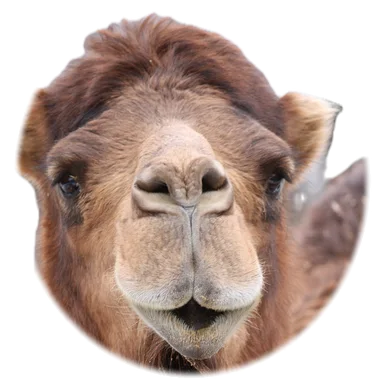
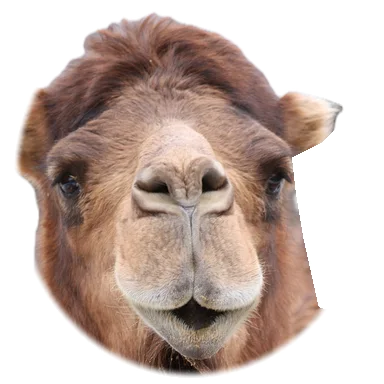
Clean the goat and camel faces, balance the phone HUD and stop rooftop edge snaps

Changed region(s): [[0.75, 0.3438, 0.9688, 0.8125]]

diff --git a/scripts/faces/faceRender.ts b/scripts/faces/faceRender.ts
@@ -6,7 +6,7 @@
  */
 import sharp from 'sharp';
 import {
-  alphaBounds, chinY, cropRect, inHeadRegion, paddedJaw, SILHOUETTE_CELLS, silhouetteRows, DEFAULT_LANDMARKS, headShape, refitRect, toHex, toTexture, type Crop, type FaceLandmarks,
+  alphaBounds, chinY, cropRect, inHeadRegion, isErased, type ErasePolygon, paddedJaw, SILHOUETTE_CELLS, silhouetteRows, DEFAULT_LANDMARKS, headShape, refitRect, toHex, toTexture, type Crop, type FaceLandmarks,
   type PixelRect,
 } from './faceRules.ts';
 
@@ -80,7 +80,7 @@ async function skinTone(rgb: Buffer, lm: FaceLandmarks): Promise<string> {
   return toHex(r.mean, g.mean, b.mean);
 }
 
-function shapedAlpha(mask: Buffer | null, lm: FaceLandmarks): Buffer {
+function shapedAlpha(mask: Buffer | null, lm: FaceLandmarks, erase: readonly ErasePolygon[]): Buffer {
   const alpha = Buffer.alloc(FACE_SIZE * FACE_SIZE);
   const chin = chinY(lm);
   const jaw = lm.jaw.length > 0 ? paddedJaw(lm.jaw) : [];
@@ -90,7 +90,7 @@ function shapedAlpha(mask: Buffer | null, lm: FaceLandmarks): Buffer {
       const i = y * FACE_SIZE + x;
       const u = (x + 0.5) / FACE_SIZE;
       const subject = mask ? mask[i] / BYTE_MAX : 1;
-      const a = inHeadRegion(u, v, jaw, chin) ? subject * headShape(u, v, 1) : 0;
+      const a = inHeadRegion(u, v, jaw, chin) && !isErased(u, v, erase) ? subject * headShape(u, v, 1) : 0;
       alpha[i] = a < MIN_ALPHA ? 0 : Math.round(a * BYTE_MAX);
     }
   }
@@ -102,17 +102,17 @@ async function outline(alpha: Buffer): Promise<Buffer> {
     .blur(OUTLINE_BLUR).threshold(OUTLINE_THRESHOLD).extractChannel(0).raw().toBuffer();
 }
 
-/** Writes the sticker WebP for one face and returns its tone and texture landmarks. */
-export async function renderFace(imagePath: string, maskFile: string | null, crop: Readonly<Crop>, img: ImageLandmarks | null, outPath: string): Promise<RenderResult> {
+/** Writes the sticker WebP for one face (minus any hand-set erase polygons) and returns its tone and texture landmarks. */
+export async function renderFace(imagePath: string, maskFile: string | null, crop: Readonly<Crop>, img: ImageLandmarks | null, erase: readonly ErasePolygon[], outPath: string): Promise<RenderResult> {
   const { width = 0, height = 0 } = await sharp(imagePath, SOURCE_READ).metadata();
   const first = cropRect(crop, width, height);
-  const firstAlpha = shapedAlpha(maskFile ? await cropped(maskFile, first, 1, width, height) : null, textureLandmarks(img, first, width, height));
+  const firstAlpha = shapedAlpha(maskFile ? await cropped(maskFile, first, 1, width, height) : null, textureLandmarks(img, first, width, height), []);
   const bounds = alphaBounds(firstAlpha, FACE_SIZE);
   const rect = bounds ? refitRect(first, bounds, FACE_SIZE) : first;
   const landmarks = textureLandmarks(img, rect, width, height);
   const rgb = await cropped(imagePath, rect, 3, width, height);
   const mask = maskFile ? await cropped(maskFile, rect, 1, width, height) : null;
-  const alpha = shapedAlpha(maskFile ? mask : null, landmarks);
+  const alpha = shapedAlpha(maskFile ? mask : null, landmarks, erase);
   const border = await outline(alpha);
   const out = Buffer.alloc(FACE_SIZE * FACE_SIZE * CHANNELS_RGBA);
   const finalAlpha = new Uint8Array(FACE_SIZE * FACE_SIZE);

diff --git a/scripts/faces/fetchFaces.ts b/scripts/faces/fetchFaces.ts
@@ -10,13 +10,15 @@ import sharp from 'sharp';
 import { downloadOnce, imageInfo, type ImageInfo } from './commonsClient.ts';
 import { analyzePhotos, maskPath } from './faceAnalysis.ts';
 import { renderFace, type ImageLandmarks } from './faceRender.ts';
-import { creditEntry, cropFromFaceBox, isAllowedLicense, type Crop, type CreditEntry } from './faceRules.ts';
+import { creditEntry, cropFromFaceBox, isAllowedLicense, type Crop, type CreditEntry, type ErasePolygon } from './faceRules.ts';
 
 const ROOT = join(import.meta.dirname, '..', '..');
 const SOURCES_PATH = join(ROOT, 'scripts', 'faces', 'faceSources.json');
 const CACHE_DIR = join(ROOT, 'scripts', 'faces', 'cache');
 const ANALYSIS_DIR = join(CACHE_DIR, 'analysis');
 const OUTPUT_DIR = join(ROOT, 'public', 'faces');
+/** Faces without hand-set erase circles keep everything the subject mask kept. */
+const NO_ERASE: readonly ErasePolygon[] = [];
 const CREDITS_PATH = join(ROOT, 'src', 'roster', 'credits.json');
 const SOURCE_READ = { failOn: 'none' } as const;
 
@@ -29,6 +31,8 @@ interface FaceSource {
   manual?: boolean;
   crop: Crop | null;
   landmarks: ImageLandmarks | null;
+  /** Background patches the subject mask kept, cut away by hand in the finished sticker's coordinates (applied after the refit); absent means none. */
+  erase?: ErasePolygon[];
 }
 
 /** Drops a cached photo and its analysis when the fighter's source file changed, so the new photo is fetched. */
@@ -81,7 +85,7 @@ async function main(): Promise<void> {
     if (!source.crop) throw new FaceLicenseError(`${source.id} has no crop`);
     const mask = maskPath(ANALYSIS_DIR, source.id);
     const out = join(OUTPUT_DIR, `${source.id}.webp`);
-    const result = await renderFace(paths.get(source.id) ?? '', existsSync(mask) ? mask : null, source.crop, source.landmarks, out);
+    const result = await renderFace(paths.get(source.id) ?? '', existsSync(mask) ? mask : null, source.crop, source.landmarks, source.erase ?? NO_ERASE, out);
     const info = infos.get(source.id);
     if (info) credits.push(creditEntry(source.id, source.file, info.meta, result.tone, result.landmarks, result.silhouette));
   }

diff --git a/src/fight/ringOuts.ts b/src/fight/ringOuts.ts
@@ -1,9 +1,11 @@
 /**
  * Ring-outs on an open platform: a fighter whose knockback carries their centre past the platform edge falls off.
- * Only fighters being knocked back by a hit can go over; walking and dashing still stop at the edge like a wall.
+ * Only fighters being knocked back by a hit can go over; walking and dashing stop at the edge like a wall, and a
+ * fighter left teetering past the wall line stays put instead of snapping back.
  * A ring-out counts as a knockout, so the usual match-end rules decide the winner.
  */
-import { isInsideArena } from '../core/arena';
+import { ARENA_HALF_DEPTH, ARENA_HALF_WIDTH, isInsideArena, type FloorPoint } from '../core/arena';
+import { bodyRadius } from './bodyPhysics';
 import { ActionKind, type FightEvent, type FighterState } from './fightTypes';
 import { isAlive } from './matchQueries';
 
@@ -28,4 +30,20 @@ export function applyRingOuts(fighters: FighterState[], events: FightEvent[]): v
     events.push({ kind: 'ringOut', target: f.slotId, x: f.x, z: f.z });
     events.push({ kind: 'ko', target: f.slotId, by: RING_OUT_SOURCE });
   }
+}
+
+function limit(half: number, radius: number, before: number): number {
+  return Math.min(half, Math.max(half - radius, Math.abs(before)));
+}
+
+/**
+ * Holds a fighter on an open platform: like the walls, but a fighter whose knockback left them between the wall line
+ * and the edge may stay where they were (before is their position at the start of the tick); they cannot move further out.
+ */
+export function keepOnPlatform(f: FighterState, before: Readonly<FloorPoint>): void {
+  const r = bodyRadius(f);
+  const maxX = limit(ARENA_HALF_WIDTH, r, before.x);
+  const maxZ = limit(ARENA_HALF_DEPTH, r, before.z);
+  f.x = Math.min(maxX, Math.max(-maxX, f.x));
+  f.z = Math.min(maxZ, Math.max(-maxZ, f.z));
 }

diff --git a/src/fight/matchStep.ts b/src/fight/matchStep.ts
@@ -14,7 +14,7 @@ import { resolveAttacks } from './hitResolution';
 import { spawnHazard, stepHazards } from './hazards';
 import { dropFromFallen, pickUpItems, spawnItem } from './items';
 import { spawnProjectiles, stepProjectiles } from './projectiles';
-import { applyRingOuts, canRingOut } from './ringOuts';
+import { applyRingOuts, canRingOut, keepOnPlatform } from './ringOuts';
 import { isAlive, livingOnTeam, teamHealthFraction } from './matchQueries';
 
 function cloneFighter(f: Readonly<FighterState>): FighterState {
@@ -77,7 +77,11 @@ export function stepMatch(state: Readonly<MatchState>, inputs: readonly Readonly
   for (const f of fighters) slideKnockback(f);
   if (state.ringOuts) applyRingOuts(fighters, events);
   separateBodies(fighters);
-  for (const f of fighters) if (!onOpenEdge(f, state.ringOuts)) keepInArena(f);
+  fighters.forEach((f, i) => {
+    if (onOpenEdge(f, state.ringOuts)) return;
+    if (state.ringOuts) keepOnPlatform(f, state.fighters[i]);
+    else keepInArena(f);
+  });
   const ticksLeft = Math.max(0, state.ticksLeft - 1);
   const result = decideOutcome(fighters, ticksLeft === 0);
   if (result.over) events.push({ kind: 'matchOver', winner: result.winner, reason: result.reason });

diff --git a/src/fight/ringOutsEdge.test.ts b/src/fight/ringOutsEdge.test.ts
@@ -66,6 +66,22 @@ describe('ring-outs edge cases', () => {
     expect(state.fighters[1].x).toBeLessThan(ARENA_HALF_WIDTH);
   });
 
+  it('leaves a teetering fighter where knockback left them, without snapping back or letting them walk off', () => {
+    const s = platform(1);
+    s.fighters[0].x = -3;
+    const teeter = ARENA_HALF_WIDTH - 0.05;
+    setKnock(s, 1, ActionKind.Hitstun, teeter, 0, 0, 0);
+    s.fighters[1].action.duration = 2;
+    const idle = run(s, 6, [IDLE_INPUT, IDLE_INPUT]).state;
+    expect(idle.fighters[1].action.kind).toBe(ActionKind.Idle);
+    expect(idle.fighters[1].x).toBeCloseTo(teeter, 5);
+    const out = run(idle, 20, [IDLE_INPUT, input({ moveX: 1 })]).state;
+    expect(out.fighters[1].x).toBeLessThanOrEqual(teeter);
+    expect(out.fighters[1].ringedOut).toBe(false);
+    const back = run(idle, 20, [IDLE_INPUT, input({ moveX: -1 })]).state;
+    expect(back.fighters[1].x).toBeLessThan(teeter - 0.5);
+  });
+
   it('ends a 4v4 once a whole team is rung out, and rung-out fighters stay inert', () => {
     const s = platform(4);
     s.fighters.forEach((f, i) => { f.x = f.team === 0 ? -6 : 6; f.z = -3 + i % 4 * 2; });

diff --git a/scripts/faces/faceRules.test.ts b/scripts/faces/faceRules.test.ts
@@ -5,6 +5,7 @@
  */
 import { describe, expect, it } from 'vitest';
 import {
+  isErased,
   alphaBounds, chinY, creditEntry, inHeadRegion, JAW_SIDE_PAD, paddedJaw, silhouetteRows, cropFromFaceBox, cropRect, DEFAULT_LANDMARKS, HEAD_FILL, headShape, isAllowedLicense,
   NECK_FADE, refitRect, stripHtml, toHex, toTexture,
 } from './faceRules.ts';
@@ -118,5 +119,17 @@ describe('silhouetteRows', () => {
     expect(rows[0]).toBe('80');
     expect(rows[7]).toBe('01');
     expect(rows[3]).toBe('00');
+  });
+});
+
+describe('erase polygons', () => {
+  it('tests points against polygons', () => {
+    const square = [{ x: 0.5, y: 0 }, { x: 1, y: 0 }, { x: 1, y: 0.5 }, { x: 0.5, y: 0.5 }];
+    const triangle = [{ x: 0, y: 1 }, { x: 0.4, y: 1 }, { x: 0, y: 0.6 }];
+    expect(isErased(0.75, 0.25, [square])).toBe(true);
+    expect(isErased(0.25, 0.25, [square])).toBe(false);
+    expect(isErased(0.1, 0.9, [square, triangle])).toBe(true);
+    expect(isErased(0.35, 0.7, [square, triangle])).toBe(false);
+    expect(isErased(0.75, 0.25, [])).toBe(false);
   });
 });

diff --git a/src/ui/hud.ts b/src/ui/hud.ts
@@ -16,6 +16,8 @@ import { THEME } from './theme';
 
 const LOW_HEALTH = 0.3;
 const TEAM_CSS = [THEME.teamA, THEME.teamB, THEME.teamC, THEME.teamD] as const;
+/** More rows than this in one column switch the HUD to its compact size. */
+const COMPACT_ROWS = 2;
 
 interface Row {
   root: HTMLElement;
@@ -40,7 +42,8 @@ export class Hud {
     const left = make('div', 'hud-team', null, top);
     this.timer = make('div', 'hud-timer', '', top);
     const right = make('div', 'hud-team right', null, top);
-    for (const f of state.fighters) this.rows.set(f.slotId, this.buildRow(f.team === 0 ? left : right, f));
+    for (const f of state.fighters) this.rows.set(f.slotId, this.buildRow(f.team % 2 === 0 ? left : right, f));
+    if (Math.max(left.childElementCount, right.childElementCount) > COMPACT_ROWS) this.root.classList.add('compact');
     const power = make('div', 'hud-power', null, this.root);
     this.ready = make('div', 'hud-ready', 'FINISHER READY', power);
     this.meterFill = make('div', 'hud-fill', null, make('div', 'hud-bar meter', null, power));

diff --git a/src/ui/hudStyles.ts b/src/ui/hudStyles.ts
@@ -25,6 +25,10 @@ export const HUD_CSS = `
 .hud-fill { height: 100%; width: 100%; background: ${THEME.health}; transform-origin: left; transition: transform 120ms linear; }
 .hud-fill.low { background: ${THEME.healthLow}; }
 .hud-row.down { opacity: 0.35; filter: grayscale(1); }
+.hud.compact .hud-team { gap: 2px; }
+.hud.compact .hud-face { width: clamp(20px, 3.6vw, 34px); height: clamp(20px, 3.6vw, 34px); }
+.hud.compact .hud-name { font-size: clamp(9px, 1.3vw, 12px); }
+.hud.compact .hud-bar { height: clamp(5px, 1vw, 9px); }
 .hud-row.player .hud-face { box-shadow: 0 0 0 2px var(--player); }
 .hud-timer { font-family: ${THEME.font}; font-size: clamp(26px, 5vw, 48px); text-shadow: 0 3px 8px #000; min-width: 2.4em; text-align: center; }
 .hud-power { position: absolute; left: 50%; transform: translateX(-50%); bottom: max(10px, env(safe-area-inset-bottom));

diff --git a/scripts/faces/faceRules.ts b/scripts/faces/faceRules.ts
@@ -298,3 +298,19 @@ export function creditEntry(id: string, file: string, meta: Readonly<CommonsMeta
     silhouette: [...silhouette],
   };
 }
+
+/** A patch of background the subject mask kept, cut away by hand: a polygon in the finished sticker's texture coordinates (0..1). */
+export type ErasePolygon = TexturePoint[];
+
+/** True when the texture point (u, v) lies inside any erase polygon (even-odd rule). */
+export function isErased(u: number, v: number, polygons: readonly ErasePolygon[]): boolean {
+  return polygons.some((poly) => {
+    let inside = false;
+    for (let i = 0, j = poly.length - 1; i < poly.length; j = i, i += 1) {
+      const a = poly[i];
+      const b = poly[j];
+      if ((a.y > v) !== (b.y > v) && u < ((b.x - a.x) * (v - a.y)) / (b.y - a.y) + a.x) inside = !inside;
+    }
+    return inside;
+  });
+}

diff --git a/src/ui/touchStyles.ts b/src/ui/touchStyles.ts
@@ -30,6 +30,6 @@ export const TOUCH_CSS = `
 .touch-swap { right: calc(max(14px, env(safe-area-inset-right)) + 172px); bottom: max(24px, env(safe-area-inset-bottom)); }
 .touch-taunt { right: calc(max(14px, env(safe-area-inset-right)) + 172px); bottom: calc(max(24px, env(safe-area-inset-bottom)) + 66px);
   font-size: 11px; }
-.touch-pause { right: max(12px, env(safe-area-inset-right)); top: calc(max(8px, env(safe-area-inset-top)) + 64px);
+.touch-pause { left: 50%; margin-left: -22px; top: calc(max(8px, env(safe-area-inset-top)) + 52px);
   width: 44px; height: 44px; font-size: 16px; }
 `;

diff --git a/src/fight/bodyPhysics.ts b/src/fight/bodyPhysics.ts
@@ -11,7 +11,8 @@ import { isAlive } from './matchQueries';
 /** Distance below which two bodies are treated as coincident and pushed along X. */
 const COINCIDENT_EPSILON = 1e-6;
 
-function bodyRadius(f: Readonly<FighterState>): number {
+/** Radius of a fighter's body on the floor, scaled with their size. */
+export function bodyRadius(f: Readonly<FighterState>): number {
   return BODY_RADIUS * f.profile.sizeScale;
 }
 

diff --git a/CHANGELOG.md b/CHANGELOG.md
@@ -5,6 +5,14 @@ All notable changes to this project are documented here. The format follows
 
 ## [Unreleased]
 
+### Fixed
+- The goat and camel faces no longer carry background patches (the goat's white body behind its horn, a second
+  camel beside the first): the face pipeline takes hand-drawn erase polygons per face.
+- Phone HUD with four sides: health bars split two per side instead of one and three, rows shrink when a column
+  holds more than two fighters, and the touch pause button sits under the timer so no health bar covers it.
+- The Rooftop: a fighter left teetering past the wall line after a hit stays where the knockback left them instead
+  of snapping back inside; they still cannot walk off.
+
 ## [0.12.0] - 2026-11-13
 
 ### Added
